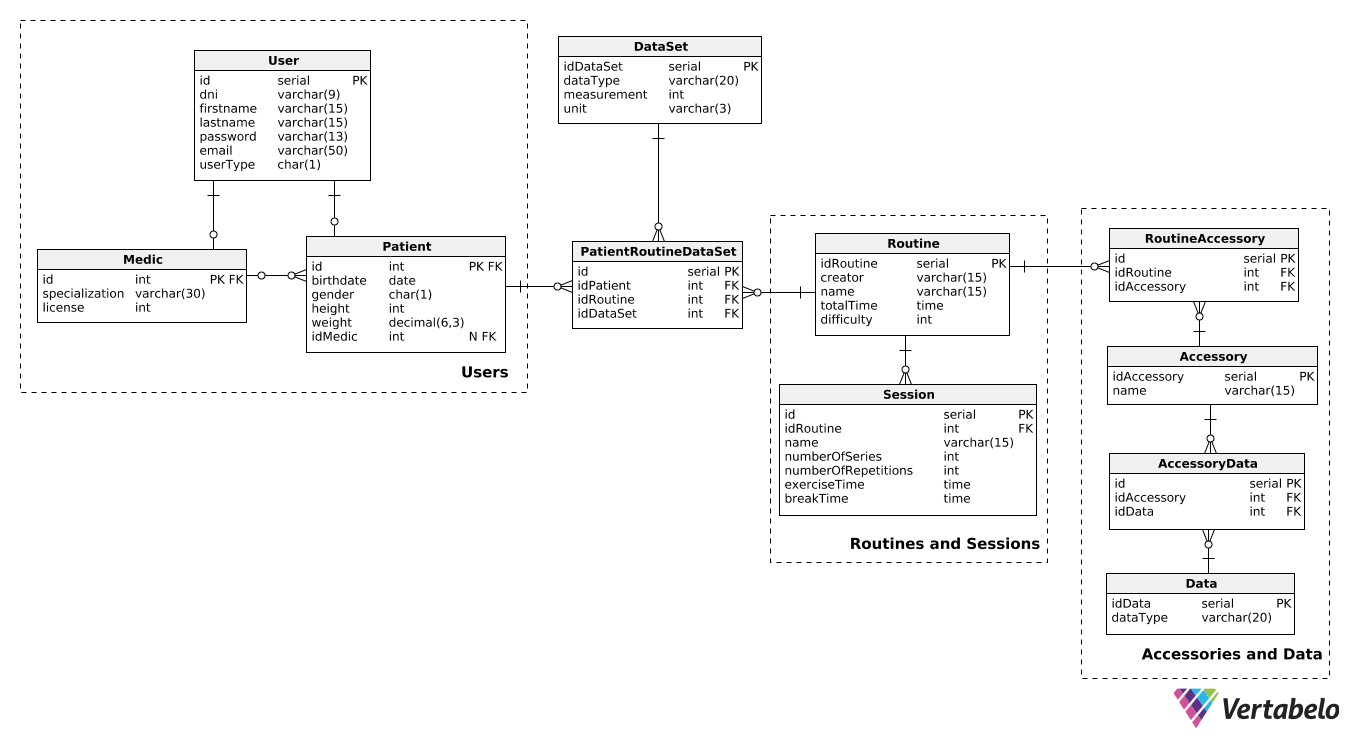
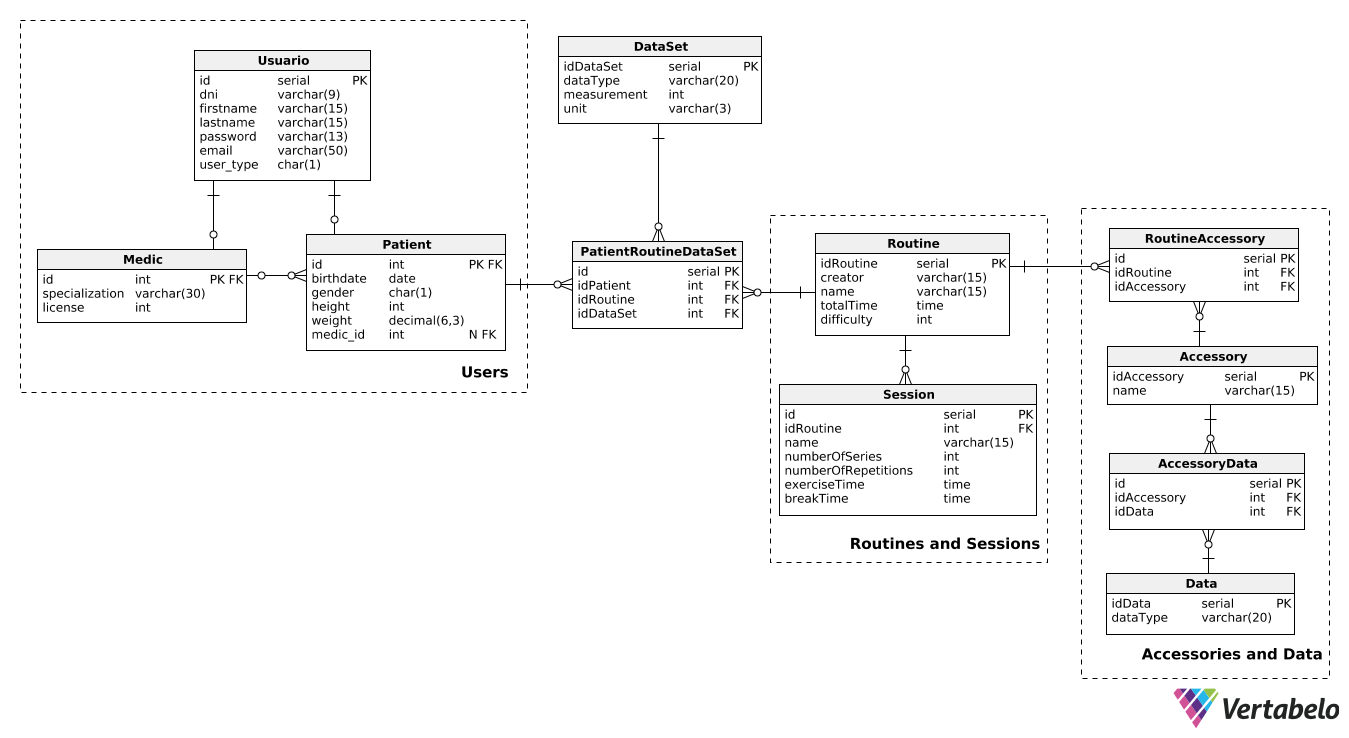
Anda el post y get de usuario

diff --git a/cloud/src/main/java/org/magritte/rayman/service/UserService.java b/cloud/src/main/java/org/magritte/rayman/service/UserService.java
@@ -1,15 +1,20 @@
 package org.magritte.rayman.service;
 
+import org.magritte.rayman.data.entity.Medic;
+import org.magritte.rayman.data.entity.Patient;
 import org.magritte.rayman.data.entity.User;
 import org.magritte.rayman.data.repository.UserRepository;
 import org.magritte.rayman.exceptions.UserNotFoundException;
+import org.magritte.rayman.rest.response.MedicResponse;
+import org.magritte.rayman.rest.response.PatientResponse;
 import org.magritte.rayman.rest.response.UserResponse;
 import org.springframework.beans.factory.annotation.Autowired;
 import org.springframework.stereotype.Service;
 
 import java.util.List;
 import java.util.Objects;
-import java.util.Optional;
+
+import static org.magritte.rayman.data.entity.Medic.MEDIC;
 
 @Service
 public class UserService {
@@ -24,7 +29,6 @@ public class UserService {
     }
 
     public void save(User user) {
-
         userRepository.save(user);
     }
 
@@ -41,22 +45,15 @@ public class UserService {
                 .findByDni(dni)
                 .orElseThrow(UserNotFoundException::new);
         if (!Objects.equals(user.getPassword(), password)) return null;
-        return new UserResponse(user);
+        return user.getUserType() == MEDIC ? new MedicResponse((Medic) user) : new PatientResponse((Patient) user);
     }
 
-    public void signUpMedic(Integer id) {
-        // TODO
-        Optional<User> patient = userRepository.findById(id);
-//        User medic = userRepository.findByDni(dni).orElseThrow(() -> new UserNotFoundException("Medic not found!"));
-//        patient.setMedic(medic);
-//        userRepository.save(patient);
-        User user = null;
-        if (patient.isPresent()) {
-            user = patient.get();
-        }
-        assert user != null;
-        System.out.println(user.toString());
-        //        userRepository.setMedicToPatient(id, medic.getId());
+    public void setMedicToPatient(Integer idPatient, Integer idMedic) {
+        User patient = userRepository.findById(idPatient).orElseThrow(UserNotFoundException::new);
+        User medic = userRepository.findById(idMedic).orElseThrow(UserNotFoundException::new);
+        ((Patient) patient).setMedic((Medic) medic);
+        userRepository.save(patient);
+//        userRepository.setMedicToPatient(id, medic.getId());
     }
 }
 

diff --git a/cloud/src/main/java/org/magritte/rayman/data/repository/LoadDatabase.java b/cloud/src/main/java/org/magritte/rayman/data/repository/LoadDatabase.java
@@ -13,32 +13,32 @@ import java.util.Calendar;
 @Slf4j
 public class LoadDatabase {
 
-    @Bean
-    public CommandLineRunner initDatabase(UserRepository repository) {
-        java.sql.Date date = new java.sql.Date(Calendar.getInstance().getTime().getTime());
-        return args -> {
-            log.info("Preloading " + repository.save(
-                    new Patient("1234",
-                            "catriel",
-                            "lopez",
-                            "abcd1234",
-                            "catriellopez@gmail.com",
-                            date,
-                            'F',
-                            157,
-                            55.0f)
-                    )
-            );
-            log.info("Preloading " + repository.save(
-                    new Medic("dni2",
-                            "name2",
-                            "lastname2",
-                            "password2",
-                            "name2lastname2@gmail.com",
-                            "specialization",
-                            12312)
-                    )
-            );
-        };
-    }
+//    @Bean
+//    public CommandLineRunner initDatabase(UserRepository repository) {
+//        java.sql.Date date = new java.sql.Date(Calendar.getInstance().getTime().getTime());
+//        return args -> {
+//            log.info("Preloading " + repository.save(
+//                    new Patient("1234",
+//                            "catriel",
+//                            "lopez",
+//                            "abcd1234",
+//                            "catriellopez@gmail.com",
+//                            date,
+//                            'F',
+//                            157,
+//                            55.0f)
+//                    )
+//            );
+//            log.info("Preloading " + repository.save(
+//                    new Medic("dni2",
+//                            "name2",
+//                            "lastname2",
+//                            "password2",
+//                            "name2lastname2@gmail.com",
+//                            "specialization",
+//                            12312)
+//                    )
+//            );
+//        };
+//    }
 }

diff --git a/cloud/src/main/java/org/magritte/rayman/data/entity/User.java b/cloud/src/main/java/org/magritte/rayman/data/entity/User.java
@@ -14,6 +14,7 @@ import javax.persistence.Id;
 import javax.persistence.Inheritance;
 import javax.persistence.InheritanceType;
 import javax.persistence.SequenceGenerator;
+import javax.persistence.Table;
 
 @Getter
 @Setter
@@ -21,15 +22,16 @@ import javax.persistence.SequenceGenerator;
 @EqualsAndHashCode(onlyExplicitlyIncluded = true)
 @ToString(onlyExplicitlyIncluded = true)
 @Inheritance(strategy = InheritanceType.JOINED)
+@Table(name = "Usuario")
 @Entity
 public abstract class User {
 
-    private static final String GENERATOR = "user_seq_gen";
-    private static final String SEQUENCE = "user_id_seq";
+    private static final String GENERATOR = "usuario_seq_gen";
+    private static final String SEQUENCE = "usuario_id_seq";
 
     @Id
     @GeneratedValue(strategy = GenerationType.SEQUENCE, generator = GENERATOR)
-    @SequenceGenerator(sequenceName = SEQUENCE, name = GENERATOR)
+    @SequenceGenerator(sequenceName = SEQUENCE, name = GENERATOR, allocationSize = 1)
     @Column(nullable = false)
     @EqualsAndHashCode.Include
     private Integer id;
@@ -38,7 +40,7 @@ public abstract class User {
     private String dni;
 
     @ToString.Include
-    private String name;
+    private String firstname;
 
     @ToString.Include
     private String lastname;
@@ -54,7 +56,7 @@ public abstract class User {
 
     public User(String dni, String name, String lastname, String password, String email, char userType) {
         this.dni = dni;
-        this.name = name;
+        this.firstname = name;
         this.lastname = lastname;
         this.password = password;
         this.email = email;
@@ -63,7 +65,7 @@ public abstract class User {
 
     public User(String dni, String name, String lastname, String email, char userType) {
         this.dni = dni;
-        this.name = name;
+        this.firstname = name;
         this.lastname = lastname;
         this.email = email;
         this.userType = userType;

diff --git a/cloud/src/main/java/org/magritte/rayman/data/entity/Accessory.java b/cloud/src/main/java/org/magritte/rayman/data/entity/Accessory.java
@@ -27,8 +27,8 @@ import java.util.Set;
 public class Accessory {
 
     public static final String ID = "idAccessory";
-    public static final String NAME_TABLE = "Accessory";
-    public static final String NAME_TABLE_MANY_TO_MANY_ROUTINE = "RoutineAccessory";
+    public static final String NAME_TABLE = "accessories";
+    public static final String NAME_TABLE_MANY_TO_MANY_ROUTINE = "routineAccessory";
 
     @Id
     @GeneratedValue(strategy = GenerationType.IDENTITY)
@@ -43,8 +43,8 @@ public class Accessory {
             joinColumns = @JoinColumn(referencedColumnName = Accessory.ID),
             inverseJoinColumns = @JoinColumn(referencedColumnName = Routine.ID)
     )
-    @ManyToMany(fetch = FetchType.LAZY, cascade = CascadeType.ALL, mappedBy = NAME_TABLE)
-    private Set<Routine> routines;
+    @ManyToMany(fetch = FetchType.LAZY, cascade = CascadeType.ALL)
+    private Set<Routine> routine;
 
     @ManyToMany(fetch = FetchType.LAZY, cascade = CascadeType.ALL)
     private Set<Data> data;

diff --git a/cloud/src/main/java/org/magritte/rayman/rest/request/PatientRequest.java b/cloud/src/main/java/org/magritte/rayman/rest/request/PatientRequest.java
@@ -16,7 +16,7 @@ import java.util.Date;
 public class PatientRequest extends UserRequest {
 
     @NotNull
-    private Date birthdate;
+    private String birthdate;
 
     @NotNull
     @Getter
@@ -31,14 +31,14 @@ public class PatientRequest extends UserRequest {
     private float weight;
 
     public Patient toNewEntity() {
-        return new Patient(getDni(), getName(), getLastname(), getEmail(),
+        return new Patient(getDni(), getName(), getLastname(), getPassword(), getEmail(),
                 getBirthdate(), getGender(), getHeight(), getWeight());
     }
 
     public Date getBirthdate() {
-        DateFormat dateFormat = new SimpleDateFormat("yyyy/MM/dd");
+        DateFormat dateFormat = new SimpleDateFormat("yyyy-MM-dd");
         try {
-            return dateFormat.parse(birthdate.toString());
+            return dateFormat.parse(birthdate);
         } catch (ParseException e) {
             e.printStackTrace();
             return null;

diff --git a/cloud/src/main/java/org/magritte/rayman/rest/controller/UserController.java b/cloud/src/main/java/org/magritte/rayman/rest/controller/UserController.java
@@ -32,7 +32,7 @@ public class UserController {
     private UserService userService;
 
     //ENDPOINT
-    @GetMapping("/{id}")
+    @GetMapping("/user/{id}")
     @ResponseBody
     @ResponseStatus(code = HttpStatus.OK)
     public UserResponse getUser(@PathVariable Integer id) {
@@ -77,11 +77,11 @@ public class UserController {
 
     @PostMapping("/user/patient/{id}")
     @ResponseStatus(code = HttpStatus.OK)
-    public void registerMedic(@PathVariable Integer id) {
-        userService.signUpMedic(id);
+    public void setMedicToPatient(@PathVariable Integer idPatient, @RequestParam Integer idMedic) {
+        userService.setMedicToPatient(idPatient, idMedic);
     }
 
-    @DeleteMapping("/{id}")
+    @DeleteMapping("/user/{id}")
     public void deleteUser(@PathVariable Integer id) {
         User userToDelete = Optional.of(id)
                 .map(userService::getUserById)

diff --git a/cloud/src/main/java/org/magritte/rayman/data/entity/Patient.java b/cloud/src/main/java/org/magritte/rayman/data/entity/Patient.java
@@ -24,7 +24,7 @@ import java.util.Set;
 public class Patient extends User {
 
     public static final char PATIENT = 'P';
-    public static final String NAME_TABLE = "Patient";
+    public static final String NAME_TABLE = "patient";
     public static final String ID = "idPatient";
 
     @ToString.Include
@@ -44,8 +44,8 @@ public class Patient extends User {
     private Medic medic;
 
     @OneToMany(fetch = FetchType.LAZY, cascade = CascadeType.ALL, mappedBy = NAME_TABLE)
-    @JoinColumn(referencedColumnName = ID)
-    private Set<PatientRoutineDataSet> patientRoutineDataSets;
+//    @JoinColumn(referencedColumnName = ID)
+    private Set<PatientRoutineDataSet> patientRoutineDataSet;
 
     public Patient(String dni, String name, String lastname, String password, String email,
                    Date birthdate, char gender, int height, float weight) {

diff --git a/cloud/src/main/java/org/magritte/rayman/data/entity/Routine.java b/cloud/src/main/java/org/magritte/rayman/data/entity/Routine.java
@@ -27,7 +27,7 @@ import java.util.Set;
 public class Routine {
 
     public static final String ID = "idRoutine";
-    public static final String NAME_TABLE = "Routine";
+    public static final String NAME_TABLE = "routine";
 
     @Id
     @GeneratedValue(strategy = GenerationType.IDENTITY)
@@ -47,7 +47,8 @@ public class Routine {
     @ToString.Include
     private int difficulty;
 
-    @ManyToMany(fetch = FetchType.LAZY, cascade = CascadeType.ALL)
+
+    @ManyToMany(fetch = FetchType.LAZY, cascade = CascadeType.ALL, mappedBy = NAME_TABLE)
     private Set<Accessory> accessories;
 
     @OneToMany(fetch = FetchType.LAZY, cascade = CascadeType.ALL, mappedBy = NAME_TABLE)

diff --git a/cloud/src/main/java/org/magritte/rayman/rest/response/UserResponse.java b/cloud/src/main/java/org/magritte/rayman/rest/response/UserResponse.java
@@ -20,7 +20,7 @@ public class UserResponse {
     public UserResponse(User user) {
         this.id = user.getId();
         this.dni = user.getDni();
-        this.name = user.getName();
+        this.name = user.getFirstname();
         this.lastname = user.getLastname();
         this.email = user.getEmail();
         this.userType = getUserType();

diff --git a/cloud/src/main/java/org/magritte/rayman/rest/request/MedicRequest.java b/cloud/src/main/java/org/magritte/rayman/rest/request/MedicRequest.java
@@ -34,7 +34,7 @@ public class MedicRequest extends UserRequest {
     private int license;
 
     public Medic toNewEntity() {
-        return new Medic(getDni(), getName(), getLastname(),
+        return new Medic(getDni(), getName(), getLastname(), getPassword(),
                 getEmail(), getSpecialization(), getLicense());
     }
 }

diff --git a/cloud/src/main/java/org/magritte/rayman/data/entity/Medic.java b/cloud/src/main/java/org/magritte/rayman/data/entity/Medic.java
@@ -21,7 +21,7 @@ import java.util.Set;
 public class Medic extends User {
 
     public static final char MEDIC = 'M';
-    public static final String NAME_TABLE = "Medic";
+    public static final String NAME_TABLE = "medic";
 
     @ToString.Include
     private String specialization;

diff --git a/cloud/src/main/java/org/magritte/rayman/data/entity/DataSet.java b/cloud/src/main/java/org/magritte/rayman/data/entity/DataSet.java
@@ -24,7 +24,7 @@ import java.util.Set;
 @Entity
 public class DataSet {
 
-    public static final String NAME_TABLE = "DataSet";
+    public static final String NAME_TABLE = "dataSet";
 
     @Id
     @GeneratedValue(strategy = GenerationType.IDENTITY)
